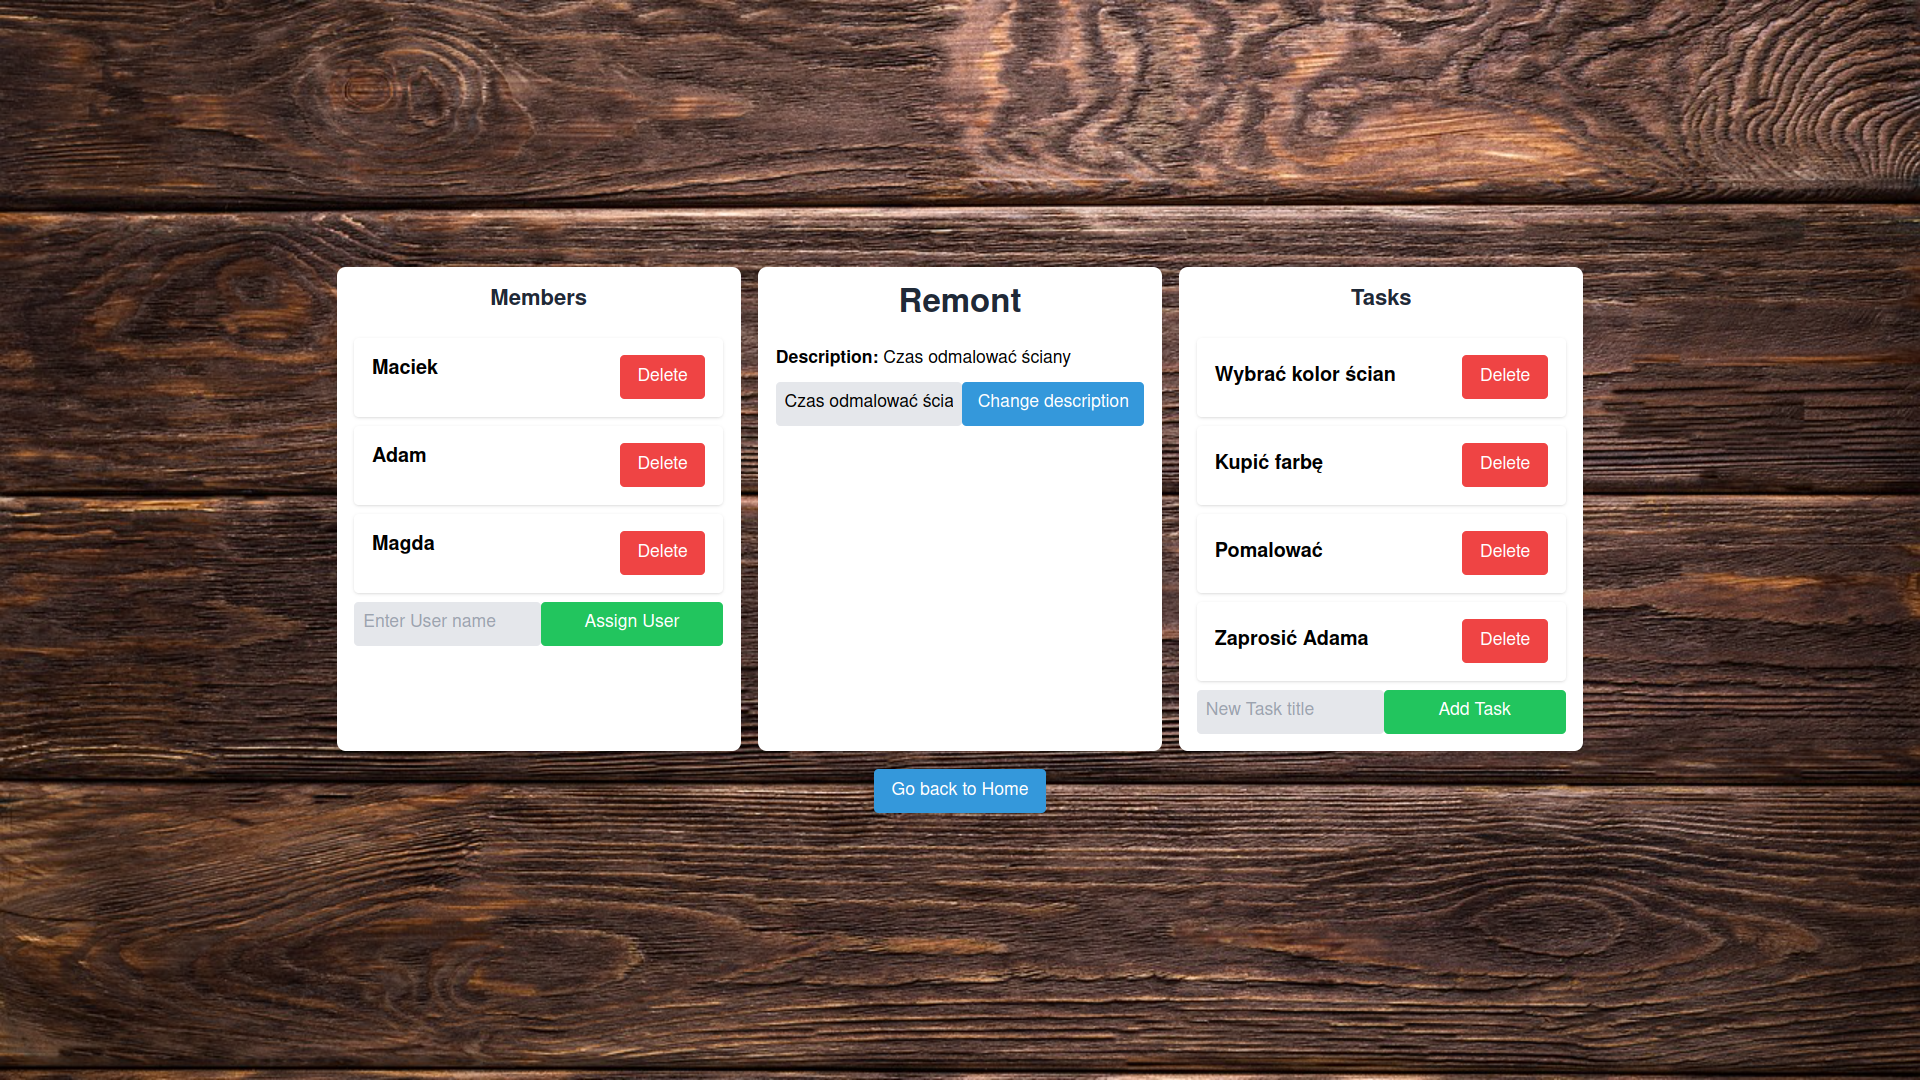
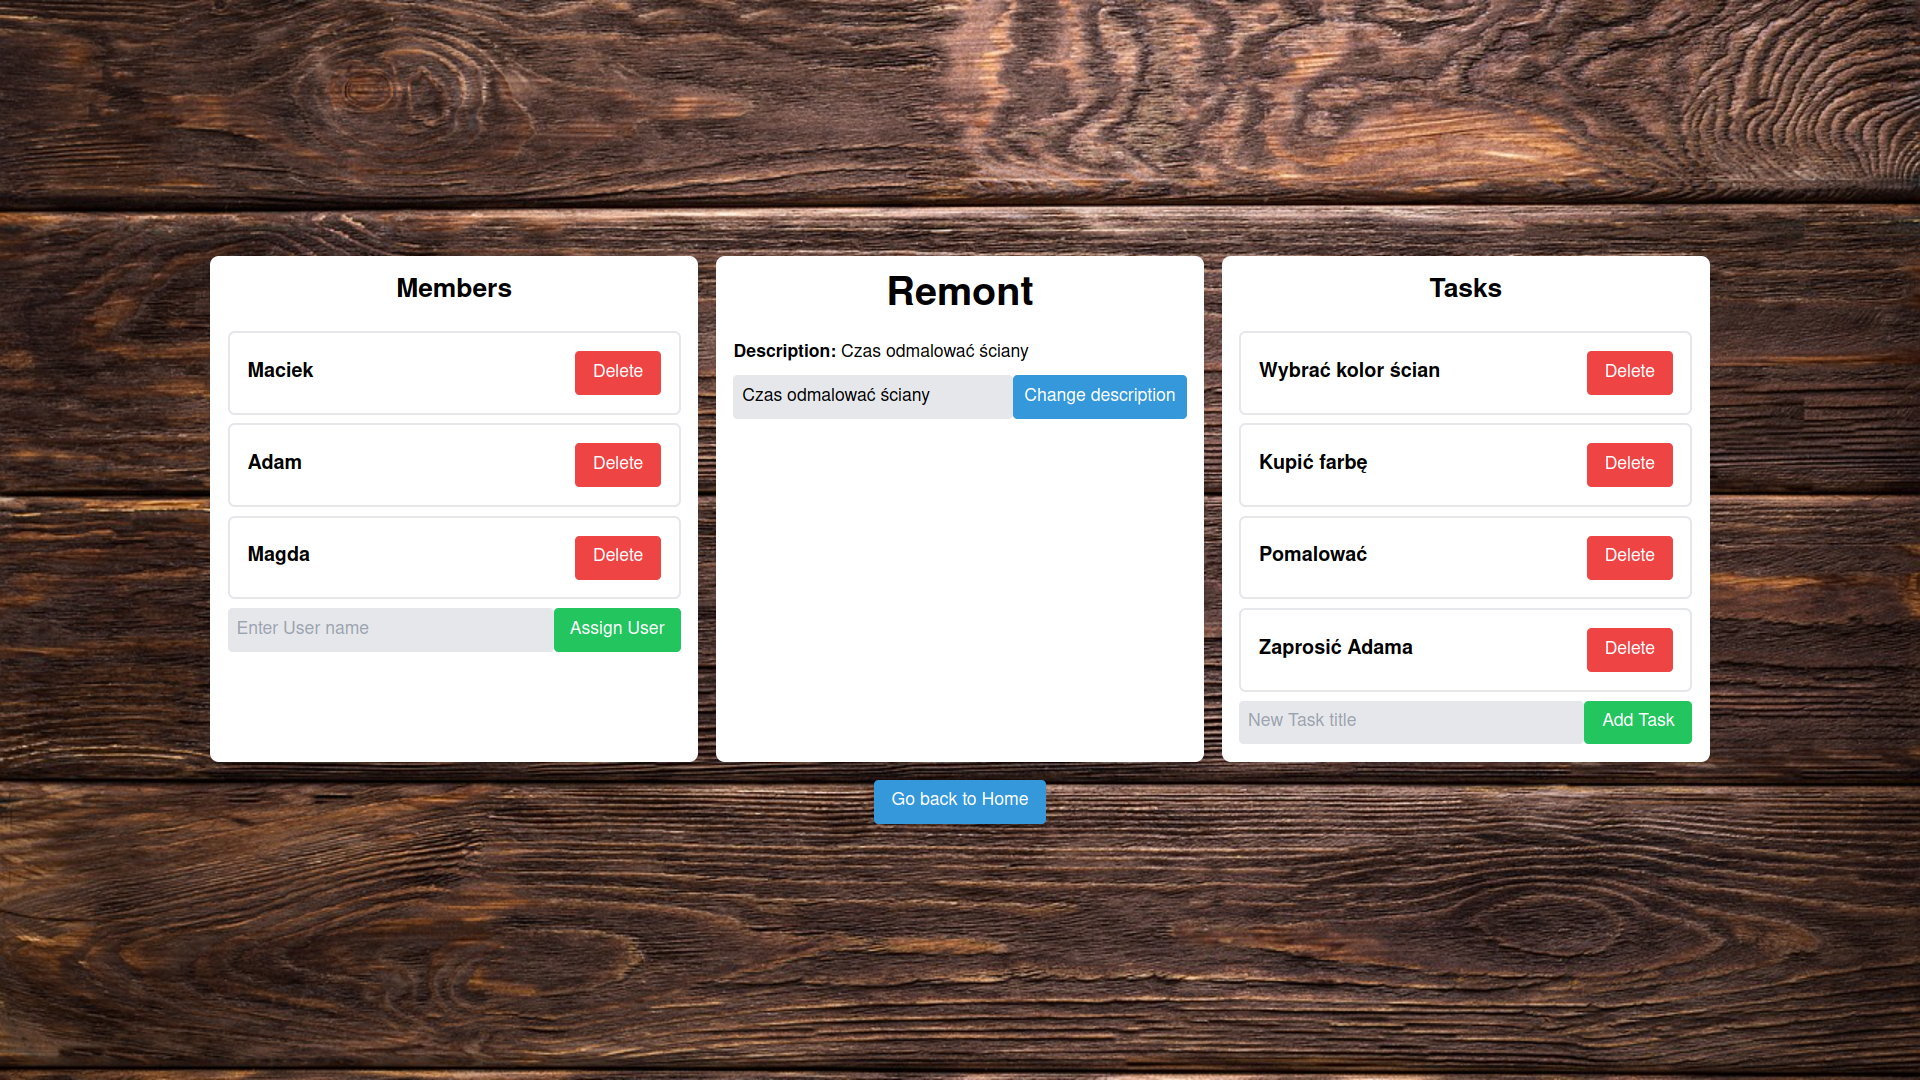
Improved project page appearance

Changed region(s): [[0.0938, 0.2139, 0.9062, 0.7639]]

diff --git a/src/my-react-frontend/src/components/ProjectDetails.js b/src/my-react-frontend/src/components/ProjectDetails.js
@@ -128,14 +128,12 @@ const ProjectDetails = ({ project }) => {
 
                 {/* Left Column */}
                 <div className="flex-1 max-w-xl mx-auto bg-white shadow-lg rounded-lg overflow-hidden p-4">
-                    <h2 className="text-xl font-bold text-gray-800">Members</h2>
-                    <ul className="tasks-container">
+                    <h2 className="text-2xl font-bold">Members</h2>
+                    <ul className="list-container">
                         {project2.members && project2.members.length > 0 ? (
                             project2.members.map(member => (
-                                <div key={member.id} className="bg-white shadow p-4 rounded mb-2 flex">
-                                    <div className="flex-1">
-                                        <h3 className="text-lg font-bold">{member.name}</h3>
-                                    </div>
+                                <div key={member.id} className="bg-white border-solid border-2 rounded-[6px] p-4 mb-2 flex items-center">
+                                    <h3 className="text-lg font-bold flex-1">{member.name}</h3>
                                     <button
                                         onClick={() => deleteMember(member.name)} // Assuming deleteTask function needs task's id
                                         className="mybutton-red"
@@ -159,7 +157,7 @@ const ProjectDetails = ({ project }) => {
                         />
                         <button
                             onClick={handleAssignUser}
-                            className="mybutton-green px-1 w-full"
+                            className="mybutton-green px-1 w-40"
                         >
                             Assign User
                         </button>
@@ -169,7 +167,7 @@ const ProjectDetails = ({ project }) => {
 
                 {/* Middle Column */}
                 <div className="flex-1 max-w-xl mx-auto bg-white shadow-lg rounded-lg overflow-hidden p-4 ml-4">
-                    <h1 className="text-3xl font-bold text-gray-800">{project2.name}</h1>
+                    <h1 className="text-4xl font-bold">{project2.name}</h1>
                     <p className="text-md"><span className="font-bold">Description:</span> {description}</p>
 
                     <div className="flex mt-2">
@@ -181,7 +179,7 @@ const ProjectDetails = ({ project }) => {
                         />
                         <button
                             onClick={updateProjectDescription}
-                            className="mybutton px-1 w-full"
+                            className="mybutton px-1 w-64"
                         >
                             Change description
                         </button>
@@ -190,17 +188,17 @@ const ProjectDetails = ({ project }) => {
 
                 {/* Right Column */}
                 <div className="flex-1 max-w-xl mx-auto bg-white shadow-lg rounded-lg overflow-hidden p-4 ml-4">
-                    <h2 className="text-xl font-bold text-gray-800">Tasks</h2>
-                    <div className="tasks-container">
+                    <h2 className="text-2xl font-bold">Tasks</h2>
+                    <div className="list-container">
                         {tasks.length > 0 ? (
                             tasks.map(task => (
-                                <div key={task.id} className="bg-white shadow p-4 rounded mb-2 flex items-center">
+                                <div key={task.id} className="bg-white border-solid border-2 rounded-[6px] p-4 mb-2 flex items-center">
                                     <div className="flex-1">
                                         <h3 className="text-lg font-bold">{task.title}</h3>
                                         <p>{task.description}</p>
                                     </div>
                                     <button
-                                        onClick={() => deleteTask(task.id)} // Assuming deleteTask function needs task's id
+                                        onClick={() => deleteTask(task.id)}
                                         className="mybutton-red"
                                     >
                                         Delete
@@ -222,7 +220,7 @@ const ProjectDetails = ({ project }) => {
                         />
                         <button
                             onClick={handleAddTask}
-                            className="mybutton-green px-1 w-full"
+                            className="mybutton-green px-1 w-32"
                         >
                             Add Task
                         </button>
